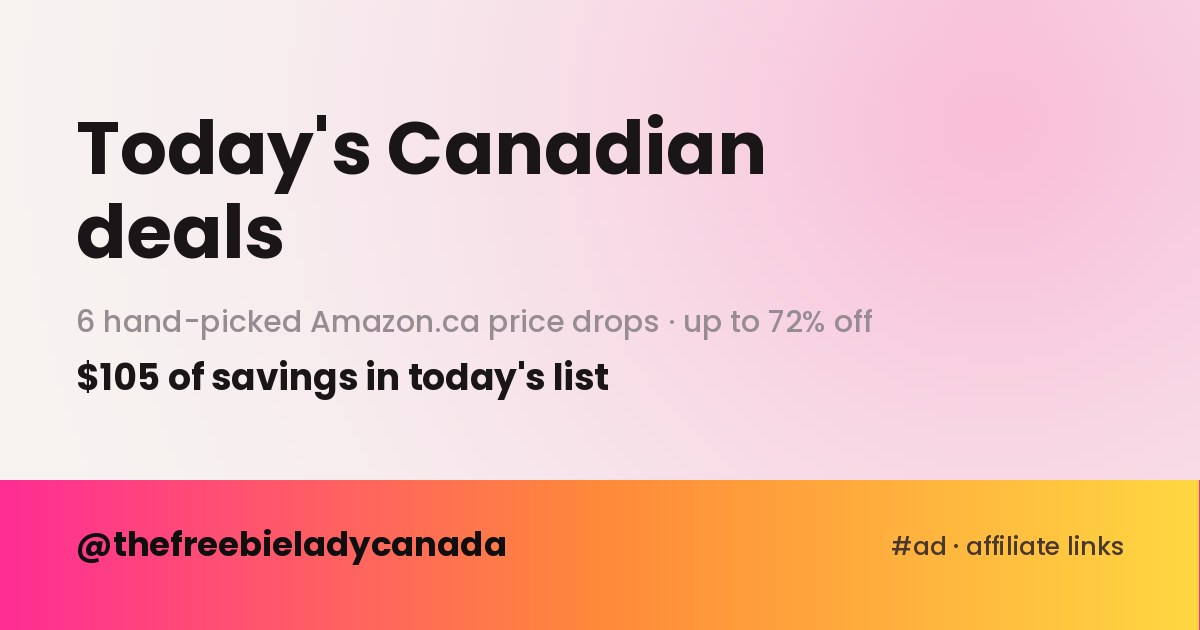
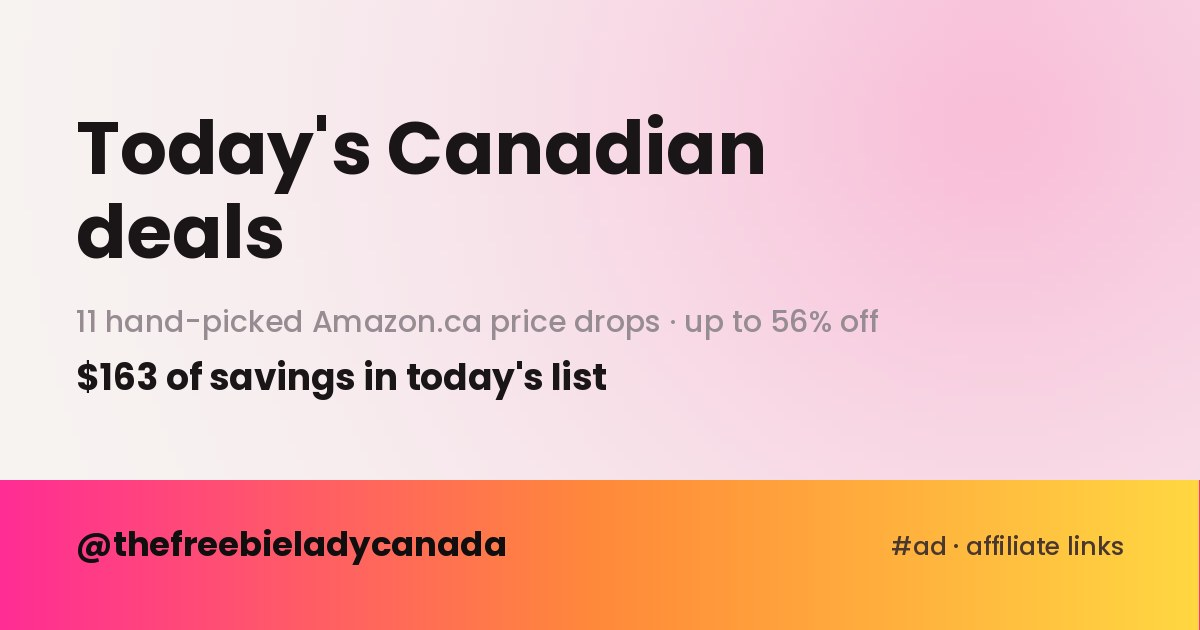
changed at 1:36 PM on sep 11

Changed region(s): [[0.0617, 0.4825, 0.555, 0.5429], [0.0925, 0.573, 0.5242, 0.6333], [0.5858, 0.4825, 0.74, 0.5429]]

diff --git a/index.html b/index.html
@@ -4,12 +4,12 @@
 <meta charset="utf-8">
 <meta name="viewport" content="width=device-width, initial-scale=1">
 <title>Today's Canadian Deals — The Freebie Lady Canada</title>
-<meta name="description" content="6 hand-picked Amazon.ca price drops, up to 72% off. Updated daily.">
+<meta name="description" content="11 hand-picked Amazon.ca price drops, up to 56% off. Updated daily.">
 <link rel="canonical" href="https://thefreebieladycanada.com/">
 <meta property="og:type" content="website">
 <meta property="og:site_name" content="The Freebie Lady Canada">
 <meta property="og:title" content="Today's Canadian Deals">
-<meta property="og:description" content="6 hand-picked Amazon.ca price drops, up to 72% off. Updated daily.">
+<meta property="og:description" content="11 hand-picked Amazon.ca price drops, up to 56% off. Updated daily.">
 <meta property="og:url" content="https://thefreebieladycanada.com/">
 <meta property="og:image" content="https://thefreebieladycanada.com/og.jpg">
 <meta property="og:image:width" content="1200">
@@ -125,7 +125,7 @@ footer b{color:var(--ink); font-weight:600}
     <div class="rule"></div>
     <p class="sub">Hand-picked price drops on Amazon.ca — from
       <b>@thefreebieladycanada</b>.</p>
-    <p class="meta">6 deals &middot; checked 11 September, 12:05 PM ET</p>
+    <p class="meta">11 deals &middot; checked 11 September, 12:34 PM ET</p>
   </header>
 
   <p class="upfront"><b>#ad</b> — every link below is an Amazon affiliate link.
@@ -134,14 +134,14 @@ footer b{color:var(--ink); font-weight:600}
   <ul>
 
     <li>
-      <a class="deal" href="https://www.amazon.ca/dp/B0BRTQYJZL?tag=thefreebielad-20&amp;linkCode=ll1&amp;language=en_CA" target="_blank" rel="nofollow sponsored noopener">
-        <span class="off"><b>62%</b><i>off</i></span>
+      <a class="deal" href="https://www.amazon.ca/dp/B07GRSZ9GG?tag=thefreebielad-20&amp;linkCode=ll1&amp;language=en_CA" target="_blank" rel="nofollow sponsored noopener">
+        <span class="off"><b>45%</b><i>off</i></span>
         <span class="txt">
-          <span class="name">Whipped Beef Tallow Skin Balm</span>
+          <span class="name">FridaBaby nail clipper set</span>
           <span class="prices">
-            <span class="now">$20.99</span>
-            <span class="was">$54.99</span>
-            <span class="save">save $34.00</span>
+            <span class="now">$11.04</span>
+            <span class="was">$19.99</span>
+            <span class="save">save $8.95</span>
           </span>
         </span>
         <span class="go" aria-hidden="true">&rarr;</span>
@@ -149,14 +149,14 @@ footer b{color:var(--ink); font-weight:600}
     </li>
 
     <li>
-      <a class="deal" href="https://www.amazon.ca/dp/B0012DK48C?tag=thefreebielad-20&amp;linkCode=ll1&amp;language=en_CA" target="_blank" rel="nofollow sponsored noopener">
-        <span class="off"><b>55%</b><i>off</i></span>
+      <a class="deal" href="https://www.amazon.ca/dp/B009T0537W?tag=thefreebielad-20&amp;linkCode=ll1&amp;language=en_CA" target="_blank" rel="nofollow sponsored noopener">
+        <span class="off"><b>50%</b><i>off</i></span>
         <span class="txt">
-          <span class="name">Q-tips Cotton Swabs 375ct</span>
+          <span class="name">Philips SatinShave shaver</span>
           <span class="prices">
-            <span class="now">$4.67</span>
-            <span class="was">$10.40</span>
-            <span class="save">save $5.73</span>
+            <span class="now">$14.95</span>
+            <span class="was">$29.99</span>
+            <span class="save">save $15.04</span>
           </span>
         </span>
         <span class="go" aria-hidden="true">&rarr;</span>
@@ -164,14 +164,44 @@ footer b{color:var(--ink); font-weight:600}
     </li>
 
     <li>
-      <a class="deal" href="https://www.amazon.ca/dp/B0H3TTT4C8?tag=thefreebielad-20&amp;linkCode=ll1&amp;language=en_CA" target="_blank" rel="nofollow sponsored noopener">
-        <span class="off"><b>72%</b><i>off</i></span>
+      <a class="deal" href="https://www.amazon.ca/dp/B0CN5K82LG?tag=thefreebielad-20&amp;linkCode=ll1&amp;language=en_CA" target="_blank" rel="nofollow sponsored noopener">
+        <span class="off"><b>50%</b><i>off</i></span>
         <span class="txt">
-          <span class="name">USB-C Cables 10ft · 3-Pack</span>
+          <span class="name">LEGO Vini Jr. soccer set</span>
           <span class="prices">
-            <span class="now">$13.98</span>
-            <span class="was">$49.98</span>
-            <span class="save">save $36.00</span>
+            <span class="now">$19.97</span>
+            <span class="was">$39.99</span>
+            <span class="save">save $20.02</span>
+          </span>
+        </span>
+        <span class="go" aria-hidden="true">&rarr;</span>
+      </a>
+    </li>
+
+    <li>
+      <a class="deal" href="https://www.amazon.ca/dp/B0CN32RZNM?tag=thefreebielad-20&amp;linkCode=ll1&amp;language=en_CA" target="_blank" rel="nofollow sponsored noopener">
+        <span class="off"><b>33%</b><i>off</i></span>
+        <span class="txt">
+          <span class="name">LEGO NINJAGO display set</span>
+          <span class="prices">
+            <span class="now">$40.08</span>
+            <span class="was">$59.99</span>
+            <span class="save">save $19.91</span>
+          </span>
+        </span>
+        <span class="go" aria-hidden="true">&rarr;</span>
+      </a>
+    </li>
+
+    <li>
+      <a class="deal" href="https://www.amazon.ca/dp/B0D1XSKZRJ?tag=thefreebielad-20&amp;linkCode=ll1&amp;language=en_CA" target="_blank" rel="nofollow sponsored noopener">
+        <span class="off"><b>56%</b><i>off</i></span>
+        <span class="txt">
+          <span class="name">UGREEN 7-in-1 dock</span>
+          <span class="prices">
+            <span class="now">$34.99</span>
+            <span class="was">$80.00</span>
+            <span class="save">save $45.01</span>
           </span>
         </span>
         <span class="go" aria-hidden="true">&rarr;</span>
@@ -182,7 +212,7 @@ footer b{color:var(--ink); font-weight:600}
       <a class="deal" href="https://www.amazon.ca/dp/B004FHO5Y6?tag=thefreebielad-20&amp;linkCode=ll1&amp;language=en_CA" target="_blank" rel="nofollow sponsored noopener">
         <span class="off"><b>38%</b><i>off</i></span>
         <span class="txt">
-          <span class="name">Logitech C270 HD Webcam</span>
+          <span class="name">Logitech C270 webcam</span>
           <span class="prices">
             <span class="now">$24.99</span>
             <span class="was">$39.99</span>
@@ -194,10 +224,40 @@ footer b{color:var(--ink); font-weight:600}
     </li>
 
     <li>
+      <a class="deal" href="https://www.amazon.ca/dp/B0D9R88P4L?tag=thefreebielad-20&amp;linkCode=ll1&amp;language=en_CA" target="_blank" rel="nofollow sponsored noopener">
+        <span class="off"><b>35%</b><i>off</i></span>
+        <span class="txt">
+          <span class="name">Hot Wheels RC Mustang</span>
+          <span class="prices">
+            <span class="now">$19.52</span>
+            <span class="was">$29.99</span>
+            <span class="save">save $10.47</span>
+          </span>
+        </span>
+        <span class="go" aria-hidden="true">&rarr;</span>
+      </a>
+    </li>
+
+    <li>
+      <a class="deal" href="https://www.amazon.ca/dp/B0DPLDTWW5?tag=thefreebielad-20&amp;linkCode=ll1&amp;language=en_CA" target="_blank" rel="nofollow sponsored noopener">
+        <span class="off"><b>38%</b><i>off</i></span>
+        <span class="txt">
+          <span class="name">Exploding Kittens: Survivor</span>
+          <span class="prices">
+            <span class="now">$15.00</span>
+            <span class="was">$24.34</span>
+            <span class="save">save $9.34</span>
+          </span>
+        </span>
+        <span class="go" aria-hidden="true">&rarr;</span>
+      </a>
+    </li>
+
+    <li>
       <a class="deal" href="https://www.amazon.ca/dp/B0FV4LNTM1?tag=thefreebielad-20&amp;linkCode=ll1&amp;language=en_CA" target="_blank" rel="nofollow sponsored noopener">
         <span class="off"><b>38%</b><i>off</i></span>
         <span class="txt">
-          <span class="name">Rimmel Lasting Finish Lipstick</span>
+          <span class="name">Rimmel Lasting Finish lippy</span>
           <span class="prices">
             <span class="now">$4.97</span>
             <span class="was">$7.99</span>
@@ -212,11 +272,26 @@ footer b{color:var(--ink); font-weight:600}
       <a class="deal" href="https://www.amazon.ca/dp/B0869RG56L?tag=thefreebielad-20&amp;linkCode=ll1&amp;language=en_CA" target="_blank" rel="nofollow sponsored noopener">
         <span class="off"><b>40%</b><i>off</i></span>
         <span class="txt">
-          <span class="name">Australian Gold After Sun Lotion</span>
+          <span class="name">Australian Gold after sun</span>
           <span class="prices">
             <span class="now">$17.17</span>
             <span class="was">$28.59</span>
             <span class="save">save $11.42</span>
+          </span>
+        </span>
+        <span class="go" aria-hidden="true">&rarr;</span>
+      </a>
+    </li>
+
+    <li>
+      <a class="deal" href="https://www.amazon.ca/dp/B0F8VQPM3Q?tag=thefreebielad-20&amp;linkCode=ll1&amp;language=en_CA" target="_blank" rel="nofollow sponsored noopener">
+        <span class="off"><b>42%</b><i>off</i></span>
+        <span class="txt">
+          <span class="name">Gua sha facial set, 2 pack</span>
+          <span class="prices">
+            <span class="now">$6.99</span>
+            <span class="was">$11.99</span>
+            <span class="save">save $5.00</span>
           </span>
         </span>
         <span class="go" aria-hidden="true">&rarr;</span>
